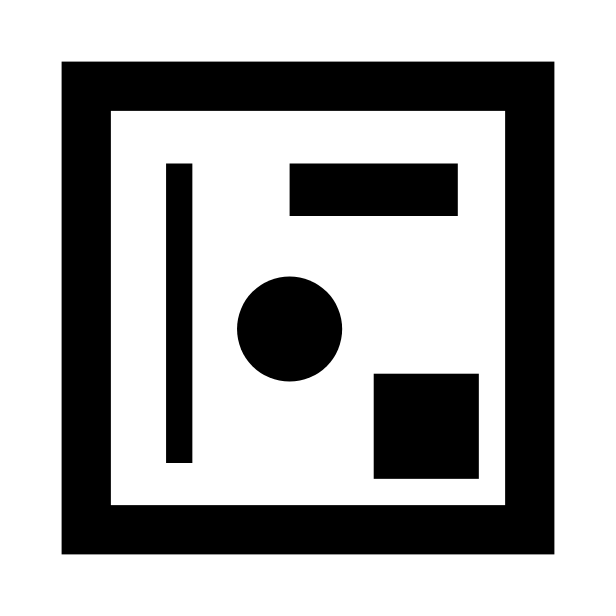
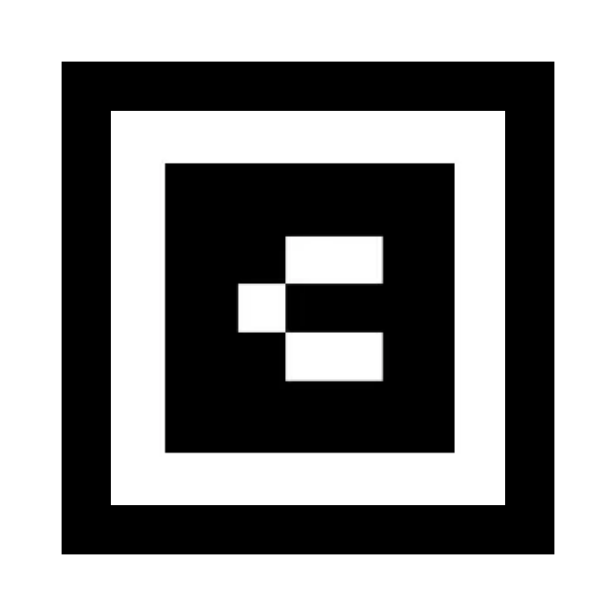
wip

Changed region(s): [[0.2468, 0.2468, 0.8019, 0.8019]]

diff --git a/index.html b/index.html
@@ -5,7 +5,7 @@
 <body style="margin : 0px; overflow: hidden;">
 
 <a-scene embedded arjs>
-    <a-marker type="pattern" url="marker.patt?v=101">
+    <a-marker type="pattern" url="marker.patt?v=102">
         <a-entity
                 position="0 0 0"
                 scale="0.05 0.05 0.05"
